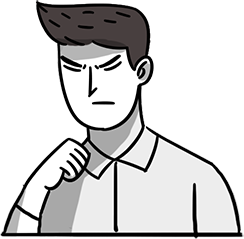
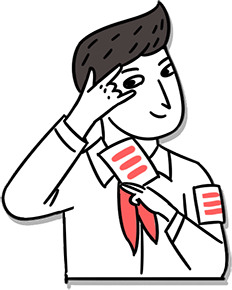
修改结果页

diff --git a/src/pages/index/app.vue b/src/pages/index/app.vue
@@ -21,7 +21,7 @@
             <div v-if="resultShow" class="resultPage">
                 <div id="result-cover">
                     <div class="result-top"><p id="resulttop">测试结果</p></div>
-                    <i class="result-m result-m0" v-if="score=0"></i>
+                    <i class="result-m result-m0" v-if="score==0"></i>
                     <i class="result-m result-m1" v-else-if="score>0 && score <=25"></i>
                     <i class="result-m result-m2" v-else-if="score>=26 && score <=50"></i>
                     <i class="result-m result-m3" v-else-if="score>=51 && score <=75"></i>
@@ -29,7 +29,7 @@
                     <div class="result-bg">
 
                         <h3>{{scoreTitle}}</h3>
-                        <img class="result-intro result1" v-if="score=0" src="../../img/result0.png">
+                        <img class="result-intro result0" v-if="score==0" src="../../img/result0.png">
                         <img class="result-intro result1" v-else-if="score>0 && score <=25" src="../../img/result1.png">
                         <img class="result-intro result2" v-else-if="score>=26 && score <=50"  src="../../img/result2.png">
                         <img class="result-intro result3" v-else-if="score>=51 && score <=75"  src="../../img/result3.png">
@@ -82,7 +82,7 @@
         data() {
             return {
                 isOk: false, // 是否显示进度条
-                step: 0,
+                step: 1,
                 username: '',
                 resultShow: false,
                 answers: [],
@@ -825,21 +825,23 @@
     }
 
     .result-bg {
-        width: rpx(682);
-        height: rpx(950);
+        width: rpx(696);
+        height: rpx(719);
         background-image: url(../../img/resultbg.png);
         background-size: 100% 100%;
         overflow: hidden;
-        margin: rpx(-60) auto rpx(30);
+        margin: rpx(-20) auto rpx(30);
         position: relative;
         z-index: 30;
         h3 {
-            font-size: rpx(36);
-            line-height: rpx(52);
+            font-size: rpx(58);
+            line-height: rpx(120);
             font-weight: 600;
             color: #000;
-            margin: rpx(95) 0 rpx(90) rpx(82);
-            text-align: left;
+            width: 100%;
+            text-align: center;
+            margin-bottom:rpx(45);
+
             span {
                 font-size: rpx(62);
                 color: #ff5f5f;
@@ -850,33 +852,39 @@
     }
     .result-m{
         display: block;
-        position: absolute;
+        /*position: absolute;*/
         z-index: 20;
         background-size:100% 100%;
-        right:rpx(68);
-        top:rpx(70);
+        margin: 0 auto;
+        /*right:rpx(68);*/
+        /*top:rpx(70);*/
+        &.result-m0{
+            width: rpx(313);
+            height: rpx(276);
+            background-image: url(../../img/resultm0.png);
+        }
         &.result-m1{
-            width: rpx(230);
-            height: rpx(269);
+            width: rpx(317);
+            height: rpx(290);
             background-image: url(../../img/resultm1.png);
         }&.result-m2{
-            width: rpx(224);
-            height: rpx(245);
+            width: rpx(237);
+            height: rpx(275);
             background-image: url(../../img/resultm2.png);
         }&.result-m3{
-            width: rpx(244);
-            height: rpx(239);
+            width: rpx(232);
+            height: rpx(290);
             background-image: url(../../img/resultm3.png);
         }&.result-m4{
-            width: rpx(257);
-            height: rpx(254);
+            width: rpx(307);
+            height: rpx(296);
             background-image: url(../../img/resultm4.png);
         }
     }
 
     .result-intro {
         //position: absolute;
-        margin-left: rpx(28)
+        margin: 0 auto
     }
 
     @mixin resultbg($width,$height) {
@@ -885,20 +893,23 @@
         height: rpx($height);
     }
 
+    .result0 {
+        @include resultbg(557, 144)
+    }
     .result1 {
-        @include resultbg(513, 166)
+        @include resultbg(582, 104)
     }
 
     .result2 {
-        @include resultbg(562, 213)
+        @include resultbg(556, 104)
     }
 
     .result3 {
-        @include resultbg(564, 214)
+        @include resultbg(563, 104)
     }
 
     .result4 {
-        @include resultbg(589, 213)
+        @include resultbg(583, 104)
     }
 
     .share-pop {

diff --git a/src/pages/index/app.js b/src/pages/index/app.js
@@ -12,7 +12,7 @@ wxApi.shareToPYQ.opts = wxApi.sendToPY.opts = {
     img_url:'http://img.gd.sohu.com/norefer/toyota/20181017/0.jpg',
     link:location.href,
     title:'人生无处不是bug',
-    desc:'快来测测你能承受多少Pa!'
+    desc:'快来开启你的躲bug人生'
 }
 window.Canvas2Image = function () {
 

diff --git a/src/pages/index/app.html b/src/pages/index/app.html
@@ -14,7 +14,7 @@
       })(document.documentElement, document.createElement('div'), 750);
   </script>
   <meta name="format-detection" content="telephone=no,email=no">
-  <title>测测你是几度BUG青年？</title>
+  <title>人生无处不是bug</title>
 
 </head>
 <body>
